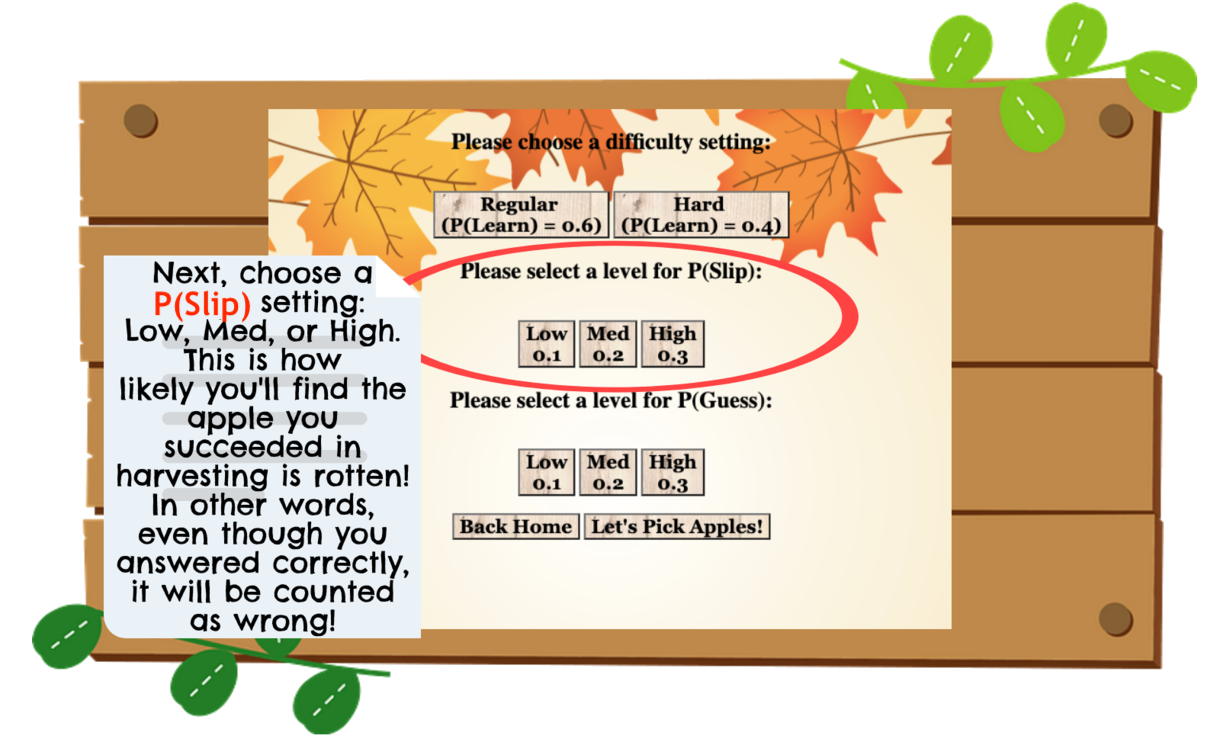
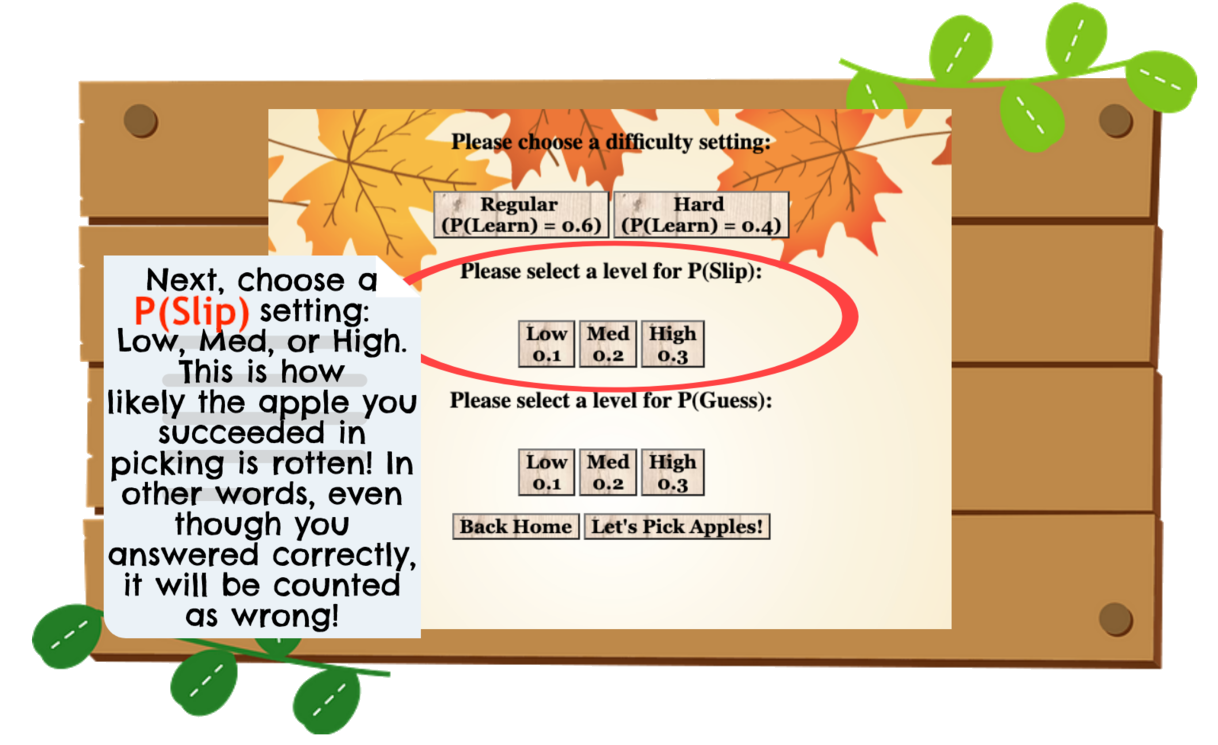
Shortened tutorial and updated credits

Changed region(s): [[0.0624, 0.3396, 0.3432, 0.8644]]

diff --git a/ApplePickingBKT/index.html b/ApplePickingBKT/index.html
@@ -10,7 +10,7 @@
     </div>
     <br>
 
-    <div class="explainable" style="text-align: center">
+    <div class="explainable" style="text-align: center; font-family: Apple Chancery, cursive">
       <!-- Home screen scene leading to instructions, preset, or credits -->
       <div id="home">
         <img src="graphics/logo.png" alt="logo">
@@ -25,7 +25,7 @@
       <!-- Instructions slides with arrows to go back and forth between pics & home scene -->
       <div id="instructions" style="display: none">
         <button type="button" class="wood" id="instructionsHome">Home</button>
-        <h1 style="font-family: Apple Chancery, cursive;">Instructions:</h1>
+        <h1>Instructions:</h1>
         <h2 id="slideProgress"></h2>
         <img name="slide" width="65%" height="auto">
         <br>
@@ -35,7 +35,7 @@
 
       <!-- Credits leads back to home scene -->
       <div id="credits" style="display: none">
-        <h1 style="font-family: Apple Chancery, cursive;">Credits:</h1>
+        <h1>Credits:</h1>
         <button type="button" class="wood" id="creditsHome">Home</button>
         <br>
         <img src="credits.png" alt="credits">
@@ -44,14 +44,14 @@
       <!-- Preset is where players set their BKT values-->
       <div id="preset" style="display: none">
         <div id="pLearn-parent">
-          <h2 style="font-family: Apple Chancery, cursive;">Please choose a difficulty setting:</h2>
+          <h2>Please choose a difficulty setting:</h2>
           <br>
           <button type="button" class="pLearnButton">Regular <br>(P(Learn) = 0.6)</button>
           <button type="button" class="pLearnButton">Hard <br>(P(Learn) = 0.4)</button>
         </div>
 
         <div id="pSlip-parent">
-          <h2 style="font-family: Apple Chancery, cursive;">Please select a level for P(Slip):</h2>
+          <h2>Please select a level for P(Slip):</h2>
           <br>
           <button type="button" class="pSlipButton">Low<br>0.1</button>
           <button type="button" class="pSlipButton">Med<br>0.2</button>
@@ -59,7 +59,7 @@
         </div>
 
         <div id="pGuess-parent">
-          <h2 style="font-family: Apple Chancery, cursive;">Please select a level for P(Guess):</h2>
+          <h2>Please select a level for P(Guess):</h2>
           <br>
           <button type="button" class="pGuessButton">Low<br>0.1</button>
           <button type="button" class="pGuessButton">Med<br>0.2</button>
@@ -75,11 +75,11 @@
       <div id="mainGame" style="display: none">
         <!-- <h1>Time to pick some apples!</h1> -->
         <br>
-        <h2 id="pKnow" style="font-family: Apple Chancery, cursive;">P(Know): 0.2</h2>
+        <h2 id="pKnow">P(Know): 0.2</h2>
         <br>
         <img id="tree" src="graphics/appleTree.png" alt="neutral tree">
-        <h2 id = "questions" style="font-family: Apple Chancery, cursive;"></h2>
-        <h3 id = "choices" style="font-family: Apple Chancery, cursive;"></h3>
+        <h2 id = "questions"></h2>
+        <h3 id = "choices"></h3>
         <br>
           <button type="button" class="answerChoice">Choice A</button>
           <button type="button" class="answerChoice">Choice B</button>

diff --git a/ApplePickingBKT/script.js b/ApplePickingBKT/script.js
@@ -18,11 +18,6 @@ slideImages[5] = "tutorial/slide6.png"
 slideImages[6] = "tutorial/slide7.png"
 slideImages[7] = "tutorial/slide8.png"
 slideImages[8] = "tutorial/slide9.png"
-slideImages[9] = "tutorial/slide10.png"
-slideImages[10] = "tutorial/slide11.png"
-slideImages[11] = "tutorial/slide12.png"
-slideImages[12] = "tutorial/slide13.png"
-slideImages[13] = "tutorial/slide14.png"
 
 //instructions screen and back
 var progess = document.getElementById('slideProgress')
@@ -34,7 +29,7 @@ toInstructions.addEventListener("click", function() {
   prevSlide.disabled = true
   nextSlide.disabled = false
   document.slide.src = slideImages[slideIndex]
-  progess.innerHTML = "Slide " + (slideIndex+1) + "/14"
+  progess.innerHTML = "Slide " + (slideIndex+1) + "/9"
 })
 var instructHome = document.getElementById('instructionsHome')
 instructHome.addEventListener("click", function() {
@@ -52,7 +47,7 @@ prevSlide.addEventListener("click", function() {
     prevSlide.disabled = true
   }
   document.slide.src = slideImages[slideIndex]
-  progess.innerHTML = "Slide " + (slideIndex+1) + "/14"
+  progess.innerHTML = "Slide " + (slideIndex+1) + "/9"
 })
 
 var nextSlide = document.getElementById('next')
@@ -70,7 +65,7 @@ nextSlide.addEventListener("click", function() {
     nextSlide.innerHTML = "Next"
   }
   document.slide.src = slideImages[slideIndex]
-  progess.innerHTML = "Slide " + (slideIndex+1) + "/14"
+  progess.innerHTML = "Slide " + (slideIndex+1) + "/9"
 })
 
 //credits screen and back
